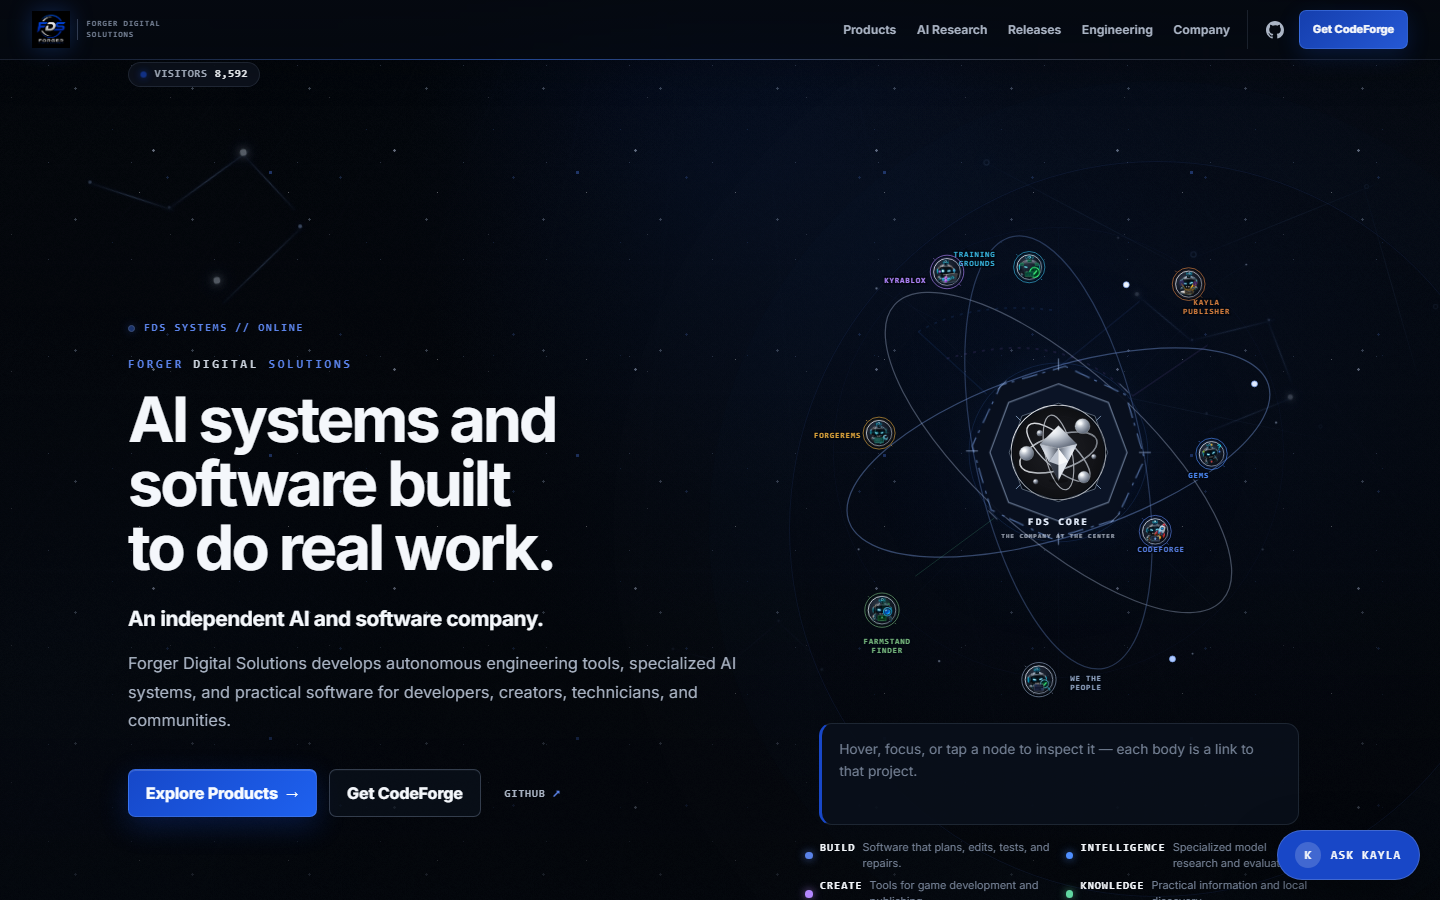
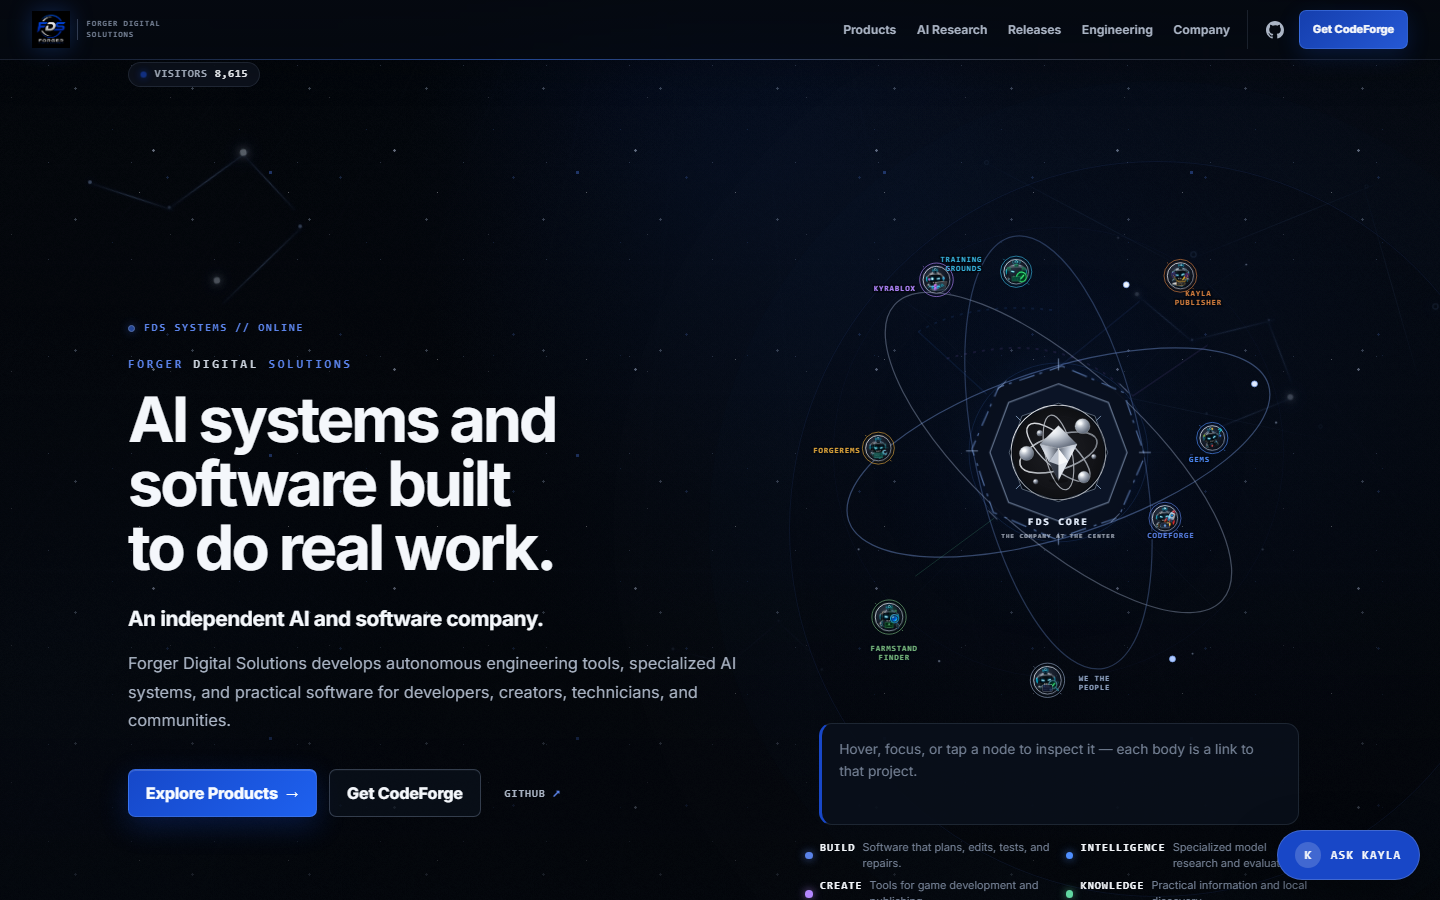
docs: certify Kayla and visual evolution integration

diff --git a/docs/audit/fds-kayla2-visual-evolution-final-2026-09-29.md b/docs/audit/fds-kayla2-visual-evolution-final-2026-09-29.md
@@ -1,0 +1,162 @@
+# FDS Website — Kayla 2.0 and Visual Evolution Final Integration
+
+**Date:** 2026-09-29
+
+**Scope:** local release candidate for human visual review. No push or deployment was performed.
+
+## 1. Verdict
+
+`FDS_KAYLA2_VISUAL_EVOLUTION_FINAL_CERTIFIED`
+
+Kayla 2.0 remains the general AI assistant certified at the local checkpoint. The homepage, Connected Systems, and GEMS visual changes are integrated, the eight product trajectories remain certified, and the final local build and relevant browser, unit, accessibility, knowledge, and content checks pass. This verdict covers the local release candidate; publishing still requires final visual approval.
+
+## 2. Starting state
+
+- Authoritative repository: `forger-digital-solutions.github.io`; branch `main`.
+- Visual integration started from `d186b0bb34bac018246e9bce314a0a369ab5fa6b` (`feat: upgrade Kayla Copilot with general free AI`). Remote `origin/main` was `4472812` at inspection.
+- The Kayla changes were already isolated in that local checkpoint. The website tree was continued in place. No CodeForge worktree, provider configuration, or database was modified.
+- The inherited Kayla audit is [kayla-copilot-2-general-ai-2026-09-29.md](kayla-copilot-2-general-ai-2026-09-29.md).
+
+## 3. Kayla 2.0
+
+Kayla handles general conversation, coding, writing, debugging, and reasoning; deterministic FDS knowledge stays authoritative for company facts. The client retains multi-turn context, streaming NDJSON rendering, cancellation and retry, a textarea composer, new chat, fenced code blocks with Copy feedback, keyboard focus handling, and mobile layout. This visual integration did not change the Kayla runtime or Worker source.
+
+The inherited checkpoint certified 1,045 unit tests, 345 golden queries, and 112 Kayla Chromium browser cases. The current integrated run passed 1,050 unit tests and the complete browser matrix described in section 17.
+
+## 4. Free AI routing — engineering evidence only
+
+The configured free-only chain is Groq `qwen/qwen3.8-27b` followed by OpenRouter `openrouter/free`. `ZERO_COST_ONLY` rejects paid models; the chain has no paid fallback. The 2026-09-29 inherited live probe reported 4/4 successful Groq scenarios (general chat, coding, grounded FDS, streaming), with approximately 156 ms stream time to first token, and 4/4 successful OpenRouter free-router scenarios. The explicit `qwen/qwen3.8-27b:free` route returned 429 during that probe and is not the configured fallback. The configured Gemini key returned 403 and Gemini is excluded from the active chain.
+
+The current pass used a mocked local stream for browser and performance work. It did not make a new live provider request. Provider and model names are **NOT EXPOSED TO USERS** in the launcher, panel status, ordinary answers, or public health response.
+
+## 5. Kayla branding
+
+The public launcher says **ASK KAYLA**. The subtitle is **“AI assistant from Forger Digital Solutions”**; the composer says **“Ask Kayla anything…”**. Public states remain Ready, Thinking…, Responding…, Stopping…, and Temporarily unavailable. Internal route names remain server-side diagnostics.
+
+## 6. Homepage ecosystem
+
+The old visual foregrounded eight individual rails. The final visual uses three calm, crossing electron planes around a larger, faceted CodeForge center. Eight existing product nodes still follow their own measured paths, but their individual rails no longer dominate the composition. Product art, labels, links, hover/focus inspection, and group information remain available. Decorative filters and continuous stroke pulses were reduced.
+
+## 7. CodeForge logo derivation
+
+The nucleus embeds the repository's [canonical CodeForge icon](../../public/images/codeforge/codeforge-icon.svg). Its faceted crystal and three intersecting loops are echoed by angular reactor outlines and visible electron planes at −18°, 42°, and 78°. Small electron dots and restrained targeting ticks support the mark without obscuring it. The [asset reference capture](visual-evolution-2026-09-29/after/reference/codeforge-icon.png) and [final ecosystem capture](visual-evolution-2026-09-29/after/responsive/1440/homepage-ecosystem.png) show the relationship.
+
+## 8. Ecosystem geometry
+
+The visible scaffold is independent of product motion. `src/data/ecosystem.ts`, the orbit model and solver, and the browser geometry test have no diff from `d186b0b`. The eight product IDs, unique paths, periods, tag anchors, and 1,080-second all-prograde repeat cycle remain intact.
+
+The solver was rerun with `MASTER=1080` and `RETRO=none`: minimum shell clearance **+3.535u**, ForgerEMS versus Kayla Publisher at **t=763.078s**; **0/28** product pairs overlap. Label-to-label minimum is **+1.74u**, own-shell minimum **+0.50u**, and label-to-bounds minimum **+2.81u**. The historical **−20.50u** label-to-other-shell under-body occlusion is intentional and was already documented in the [orbit certification](fds-atomic-orbit-final-polish-2026-09-29.md). The browser geometry suite passed sampled master-cycle positions, including the closest approach and reduced-motion T=0 frame. The [closest-approach capture](visual-evolution-2026-09-29/after/geometry/closest-763.078s.png) uses the actual paused browser animations at that timestamp.
+
+## 9. Connected Systems
+
+The card labels now read **Development, Intelligence, Gaming, Publishing, Civic, Local Discovery, Maintenance**. Repeated `CORE //` and `DOMAIN //` prefixes were removed, and the product rail is headed **FDS PRODUCTS**. CodeForge → GEMS / Training Grounds → specialized products remains the section hierarchy.
+
+## 10. GEMS / Training Grounds
+
+Training Grounds is the faceted center of a research reactor. Four distinct, named gem compute nodes surround it: Topaz (general intelligence and orchestration), Sapphire (software engineering and coding), Peridot (mathematics and technical reasoning), and Garnet (multimodal and publishing intelligence). All four retain their authoritative **Research** status.
+
+The seven-stage process is **Curriculum → Teach → Test → Diagnose → Refine → Verify → Advance**. Numbered stage labels and arrow-cued ring segments surround the core. One compositor-friendly sweep travels around the ring; hidden legacy pulses and glow paths no longer animate in the selected version. Static conduits connect each gem to the center. Hover or keyboard focus highlights the selected gem, its conduit, and the center accent. A restrained grid and telemetry marks add lab character. At 390px, the composition becomes a readable vertical stack with a full-width Training Grounds core and a seven-stage list.
+
+## 11. Visual candidate comparison
+
+| Area | Candidate | Review result |
+|---|---|---|
+| Homepage A | [Direct expansion](visual-evolution-2026-09-29/after/candidates/homepage/direct-expansion.png) | Eight colored individual rails still read as a planetary chart. |
+| Homepage B | [CodeForge reactor](visual-evolution-2026-09-29/after/candidates/homepage/codeforge-reactor.png) | **Selected**: strongest logo resemblance and readable product hierarchy. |
+| Homepage C | [Quiet scaffold](visual-evolution-2026-09-29/after/candidates/homepage/quiet-scaffold.png) | Too dim; the emblem/scaffold relationship weakens. |
+| GEMS A | [Reactor pipeline](visual-evolution-2026-09-29/after/candidates/gems/reactor-pipeline.png) | **Selected**: clear core, independent gem lineages, numbered process, lower animation cost. |
+| GEMS B | [Neural lattice](visual-evolution-2026-09-29/after/candidates/gems/neural-lattice.png) | Radial stage labels compete with lineage cards and feel less specific to Training Grounds. |
+
+Candidate selection used desktop/mobile captures, factual readability, accessibility, and settled Chromium performance traces. Candidate switching remains an audit-only query parameter in the local build; the default is the selected version.
+
+## 12. Performance
+
+The two [raw traces](visual-evolution-2026-09-29/performance-before.json) and [final trace](visual-evolution-2026-09-29/performance-after.json) used Chromium 151.0.7922.34, a 1440×900 viewport, 2.5 seconds idle, a 2-second trace, and one run per scenario. The stream scenario is a local mocked incremental NDJSON response. Numbers below are before → final; image decoding is a count of trace tasks.
+
+| Scenario | Task duration, s | RasterTask, ms | Paint, ms | Decode tasks | Running animations | Heap, MB | Long tasks |
+|---|---:|---:|---:|---:|---:|---:|---:|
+| Homepage hero | 0.22 → 0.42 | 571.54 → 96.01 | 35.84 → 36.23 | 464 → 328 | 49 → 42 | 2.29 → 2.06 | 0 → 0 |
+| Homepage ecosystem | 0.22 → 0.41 | 644.07 → 188.72 | 39.01 → 34.18 | 432 → 336 | 49 → 42 | 2.36 → 2.06 | 0 → 0 |
+| GEMS | 0.18 → 0.01 | 155.92 → 0 | 44.72 → 0 | 0 → 0 | 29 → 7 | 2.36 → 2.37 | 0 → 0 |
+| Kayla closed | 0.22 → 0.42 | 567.75 → 97.85 | 35.22 → 35.32 | 392 → 280 | 49 → 42 | 2.06 → 2.06 | 0 → 0 |
+| Kayla open | 0.24 → 0.52 | 551.28 → 104.34 | 38.65 → 31.67 | 360 → 248 | 49 → 42 | 2.55 → 2.13 | 0 → 0 |
+| Kayla streaming mock | — → 0.54 | — → 162.47 | — → 46.19 | — → 306 | — → 42 | — → 2.43 | — → 0 |
+
+The settled GEMS trace recorded no RasterTask or Paint events while its ring sweep remained active, consistent with composited transform motion. Total page animation objects fell from 83 to 54. The idle traces show a large raster reduction in the hero, ecosystem, and Kayla views, with no long tasks. Task duration rose in those four views, so this is a **mixed** performance result rather than a universal speedup. One-run traces vary; these measurements demonstrate no return to the historical multi-second raster failure, not a stable Core Web Vitals comparison.
+
+## 13. Suspension and reduced motion
+
+The ecosystem and GEMS diagrams pause when offscreen; the page visibility guard pauses decorative background animation on a hidden tab. Reduced motion stops continuous decorative motion, including the GEMS sweep, while retaining readable static states. Mobile strictly pauses desktop orbital SVG motion. Browser lifecycle gates and [reduced-motion captures](visual-evolution-2026-09-29/after/reduced-motion) confirm the compositions.
+
+## 14. Responsive
+
+Final captures cover **1920, 1599, 1440, 1280, 1024, 768, and 390px**. Browser assertions confirm eight product nodes and three scaffold planes on the desktop variants, no mobile horizontal overflow, and stage-label clearance from gem cards at the tested desktop widths. The 390px GEMS layout uses a vertical sequence rather than scaled-down desktop labels. Kayla also passed browser layouts at 320, 360, 390, and 430px, keyboard-open heights, and 200% zoom/text scaling.
+
+## 15. Accessibility
+
+The new diagrams passed scoped Axe WCAG 2 A/AA checks. GEMS lineage nodes are keyboard focusable with a visible focus state that mirrors hover feedback; the gem name, role, Research state, and seven stages remain real text. Decorative SVG layers are hidden from assistive technology where appropriate, and meaning is not conveyed by color alone. The complete browser matrix also passed Kayla Axe checks across closed, open, answer, loading, error, rate-limit, mobile, and reduced-motion states, plus the measured contrast and forced-colors tests.
+
+## 16. Security
+
+No Worker/provider configuration, model policy, secret file, or request handler changed in the visual commit. The inherited Kayla certification covers strict CORS (bad origin → 403), server-side keys, `ZERO_COST_ONLY`, rate/abuse guards, stream handling, bounded diagnostics, minimal public health, and `X-Kayla-Ops` operator gating. Current unit and browser suites passed provider-leakage, response-shape, hostile-markup, and rendered Markdown safety cases. `.dev.vars` is gitignored and absent from both local commits; the inherited audit notes that a local secret scan sees a key-like value inside that ignored local file.
+
+## 17. Tests and validation
+
+| Gate | Final result |
+|---|---|
+| Vitest, direct local CLI | **1,050/1,050**, 62 files |
+| Complete Playwright matrix, two workers | **161 passed, 26 existing capture-only skips, 0 failed**; Chromium plus Firefox/WebKit smoke |
+| GEMS visual/responsive/interaction suite after final interaction edit | **6/6 passed** |
+| Kayla golden check, direct Node | **345/345 passed**; 138/138 Tier 1, 170/170 Tier 2, 37/37 Tier 3 |
+| Kayla knowledge drift | **0 errors, 0 warnings** |
+| Kayla knowledge inventory | **0 broken references** |
+| Content validation | **7 projects, 6 notes; passed** |
+| Astro check | **0 errors, 0 warnings, 1 existing deprecation hint** in `forged.astro:254` |
+| Astro static build | **29 pages** |
+| Internal links | **1,256 checked, 0 broken** |
+| Orbit solver / browser geometry | **+3.535u shell minimum, 0/28 overlaps**; browser samples passed |
+
+`npm run validate` itself could not start because the machine's global npm shim points to a missing `%APPDATA%/npm/node_modules/npm/bin/npm-cli.js`. The equivalent steps were run directly through project-local Node CLIs. The Vite-backed Kayla scripts needed elevated local execution to complete; all three then passed. No validation script or application code was changed to work around the host shim.
+
+## 18. Files changed
+
+The Kayla checkpoint was already committed before this visual pass. The visual commit contains these implementation and verification files:
+
+| Area | Exact paths |
+|---|---|
+| Components | `src/components/FDSEcosystem.astro`; `src/components/OneFDSEcosystem.astro`; `src/components/GemsLearningSystem.astro` |
+| Tests | `test/ecosystem-orbits.test.ts`; `test/visual-evolution-contract.test.ts`; `test/e2e/gems-visual-responsive.spec.ts`; `test/e2e/site-release-critical.spec.ts` |
+| Reproducible evidence tools | `scripts/capture-visual-evolution.mjs`; `scripts/visual-evolution-perf.mjs` |
+| Review evidence | `docs/audit/visual-evolution-2026-09-29/` — before/after, candidate, interaction, reduced-motion, responsive, Kayla, logo, closest-approach PNGs and both JSON traces |
+| Final audit | `docs/audit/fds-kayla2-visual-evolution-final-2026-09-29.md` |
+
+The exact 68-file visual commit inventory is available with `git show --format= --name-only bdeb890a96aff5fc7a307f3f2d791a951e9faf45`. The audit commit updates the capture helper, adds the closest-approach image, and refreshes its final screenshots.
+
+## 19. Local commits
+
+- `d186b0bb34bac018246e9bce314a0a369ab5fa6b` — `feat: upgrade Kayla Copilot with general free AI` (inherited checkpoint).
+- `bdeb890a96aff5fc7a307f3f2d791a951e9faf45` — `feat: evolve FDS ecosystem and GEMS visual systems` (implementation, tests, and evidence).
+- This report and the final closest-approach evidence are saved in a separate local audit commit; its hash is in the final task response and `git log`.
+
+## 20. Screenshots and evidence paths
+
+The [review evidence directory](visual-evolution-2026-09-29) contains the full capture set. Useful entry points:
+
+- Homepage [before](visual-evolution-2026-09-29/before/responsive/1440/homepage-ecosystem.png) / [after](visual-evolution-2026-09-29/after/responsive/1440/homepage-ecosystem.png), [390px mobile](visual-evolution-2026-09-29/after/responsive/390/homepage-ecosystem.png), [closest approach](visual-evolution-2026-09-29/after/geometry/closest-763.078s.png).
+- Connected Systems [before](visual-evolution-2026-09-29/before/responsive/1440/connected-systems.png) / [after](visual-evolution-2026-09-29/after/responsive/1440/connected-systems.png), [390px mobile](visual-evolution-2026-09-29/after/responsive/390/connected-systems.png).
+- GEMS [before](visual-evolution-2026-09-29/before/responsive/1440/gems.png) / [after](visual-evolution-2026-09-29/after/responsive/1440/gems.png), [390px mobile](visual-evolution-2026-09-29/after/responsive/390/gems.png), [Topaz keyboard focus](visual-evolution-2026-09-29/after/interactions/gems-topaz-focus.png), [Peridot hover](visual-evolution-2026-09-29/after/interactions/gems-peridot-hover.png).
+- Kayla [launcher](visual-evolution-2026-09-29/after/kayla/launcher.png), [open panel](visual-evolution-2026-09-29/after/kayla/panel-open.png), [code response](visual-evolution-2026-09-29/after/kayla/code-response.png), [mobile](visual-evolution-2026-09-29/after/kayla/mobile.png).
+- All seven viewport widths are under `after/responsive/{1920,1599,1440,1280,1024,768,390}/`. The two JSON traces sit at the evidence directory root.
+
+## 21. Remaining risks
+
+- Final human visual approval is pending. No public release has occurred.
+- The global npm shim needs repair before a literal `npm run validate` invocation can run on this host; all current component checks passed through direct Node entry points.
+- The performance evidence is a short single-run trace. Main-thread TaskDuration increased in several views despite large raster reductions; performance should be watched on the eventual release build.
+- Free upstream inference availability can vary. The free-only failover and safe local response path remain in place; Gemini is excluded while its configured credential returns 403.
+
+## 22. Deployment
+
+**NOT PUSHED — NOT DEPLOYED — AWAITING FINAL VISUAL APPROVAL**
+
+The rebuilt local preview remains available at `http://127.0.0.1:4321`. The existing worker at port 8788 was left untouched.
